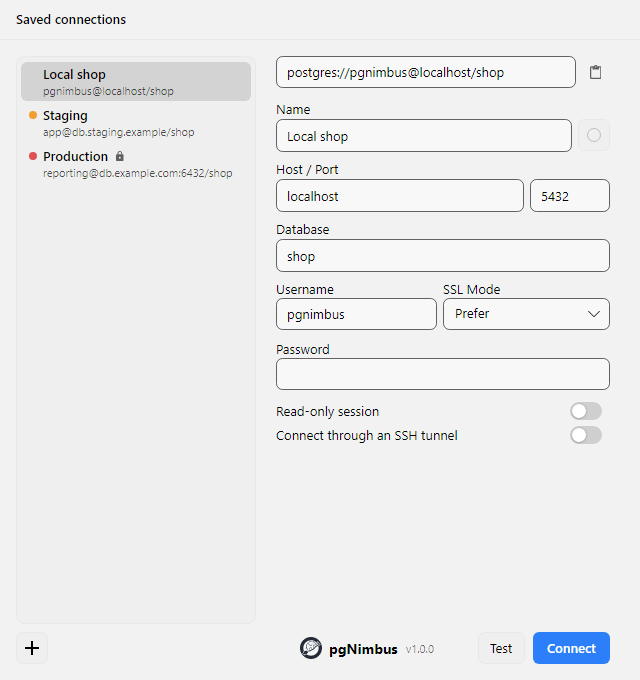
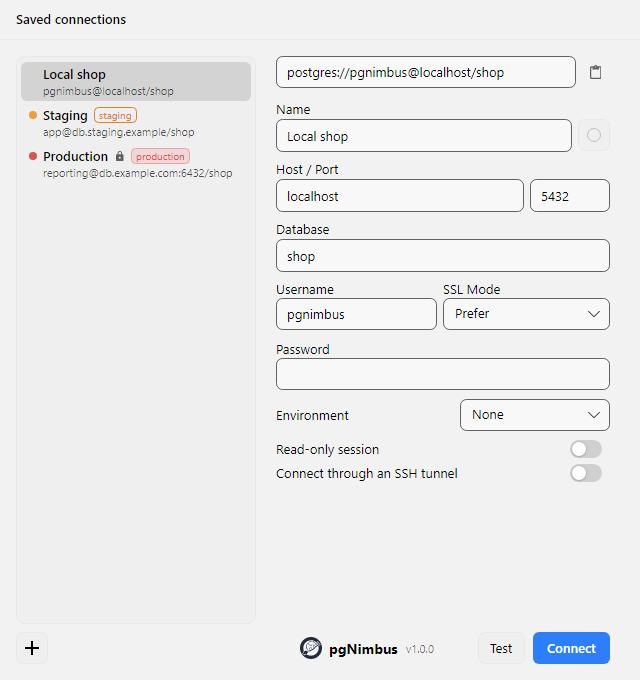
Update documentation site (from docs/ @ 51eafae)

diff --git a/docs/getting-started/connecting/index.html b/docs/getting-started/connecting/index.html
@@ -464,6 +464,34 @@
 </li>
       
         <li class="md-nav__item">
+  <a href="#environments" class="md-nav__link">
+    <span class="md-ellipsis">
+      
+        Environments
+      
+    </span>
+  </a>
+  
+    <nav class="md-nav" aria-label="Environments">
+      <ul class="md-nav__list">
+        
+          <li class="md-nav__item">
+  <a href="#what-this-protects-and-what-it-doesnt" class="md-nav__link">
+    <span class="md-ellipsis">
+      
+        What this protects, and what it doesn't
+      
+    </span>
+  </a>
+  
+</li>
+        
+      </ul>
+    </nav>
+  
+</li>
+      
+        <li class="md-nav__item">
   <a href="#read-only-connections" class="md-nav__link">
     <span class="md-ellipsis">
       
@@ -963,6 +991,34 @@
 </li>
       
         <li class="md-nav__item">
+  <a href="#environments" class="md-nav__link">
+    <span class="md-ellipsis">
+      
+        Environments
+      
+    </span>
+  </a>
+  
+    <nav class="md-nav" aria-label="Environments">
+      <ul class="md-nav__list">
+        
+          <li class="md-nav__item">
+  <a href="#what-this-protects-and-what-it-doesnt" class="md-nav__link">
+    <span class="md-ellipsis">
+      
+        What this protects, and what it doesn't
+      
+    </span>
+  </a>
+  
+</li>
+        
+      </ul>
+    </nav>
+  
+</li>
+      
+        <li class="md-nav__item">
   <a href="#read-only-connections" class="md-nav__link">
     <span class="md-ellipsis">
       
@@ -1204,6 +1260,38 @@ against the wrong server.</p>
 <p>The main window's title bar names the connection after its profile, followed by
 the database. Hover over it to see where that is, as <code>user@host:port/database</code>
 and the SSH hop, if any. A profile you never named shows its host instead.</p>
+<h2 id="environments">Environments<a class="headerlink" href="#environments" title="Permanent link">&para;</a></h2>
+<p>Set <strong>Environment</strong> on a profile to say what it points at: Development,
+Staging or Production. The profile list shows the label next to the name, and
+the main window shows it next to the connection name before anything runs.
+Dev and staging are labels only.</p>
+<p><strong>Production</strong> also changes what the window can do. Every window on a
+production profile opens with writes off, enforced by the server in the same
+way as a <a href="#read-only-connections">read-only connection</a>: <code>INSERT</code>, <code>UPDATE</code>,
+<code>DELETE</code>, <code>COPY FROM</code> and DDL are refused from the editor, the results grid, an
+import and a schema or security action alike. Cancel query and Terminate in
+Server Activity are off too.</p>
+<p>When you mean to change data, click the red <strong>production</strong> label (or run
+<strong>Allow writes in this window</strong> from the command palette) and confirm. The
+label fills red and reads <strong>production · writes on</strong>. Only that window can
+write: other windows on the same profile, a new window and the next connect all
+start with writes off again. Click the label again (or run <strong>Turn writes off in
+this window</strong>) to turn writes off. pgNimbus refuses that while a transaction you
+started with Begin is open, because its connection can still write; commit or
+roll back first. Rows already in a grid stay read-only until you run the query
+again.</p>
+<p>If <strong>Read-only session</strong> is also on, the profile stays read-only and no window
+can allow writes.</p>
+<h3 id="what-this-protects-and-what-it-doesnt">What this protects, and what it doesn't<a class="headerlink" href="#what-this-protects-and-what-it-doesnt" title="Permanent link">&para;</a></h3>
+<p>The environment and the read-only session are safeguards against mistakes in
+pgNimbus, not permissions. They make an accidental write fail, and they make the
+write state visible before you run anything. They don't stop a statement from
+running <code>SET default_transaction_read_only = off</code> for its own session, and they
+don't apply to psql or any other client using the same login.</p>
+<p>What a role may do is decided by PostgreSQL: its grants, ownership and role
+memberships. To make writes to production impossible rather than deliberate,
+connect as a role without write privileges. <strong>Roles and permissions</strong> in the
+command palette shows what a role can do and why.</p>
 <h2 id="read-only-connections">Read-only connections<a class="headerlink" href="#read-only-connections" title="Permanent link">&para;</a></h2>
 <p>Switch on <strong>Read-only session</strong> for a profile you only mean to read from, such
 as production. Every session then starts with <code>default_transaction_read_only</code>

diff --git a/docs/guide/monitoring/index.html b/docs/guide/monitoring/index.html
@@ -1010,7 +1010,9 @@ again focuses the window you already have.</p>
 <p>A live <code>pg_stat_activity</code> grid: who is connected, what they are running, how long
 they have been at it, and what they are waiting on. Each backend can be cancelled
 (stop the current statement) or terminated (drop the session) from the toolbar,
-so a runaway query is one click away from stopping.</p>
+so a runaway query is one click away from stopping. In a window on a
+<a href="../../getting-started/connecting/#environments">production profile</a>, both stay
+off until you allow writes in that window.</p>
 <h3 id="blocking">Blocking<a class="headerlink" href="#blocking" title="Permanent link">&para;</a></h3>
 <p>The tab worth knowing about before you need it: a who-blocks-whom lock tree. Lock
 holders sit at the top, waiters nest underneath them, each labelled with the lock
